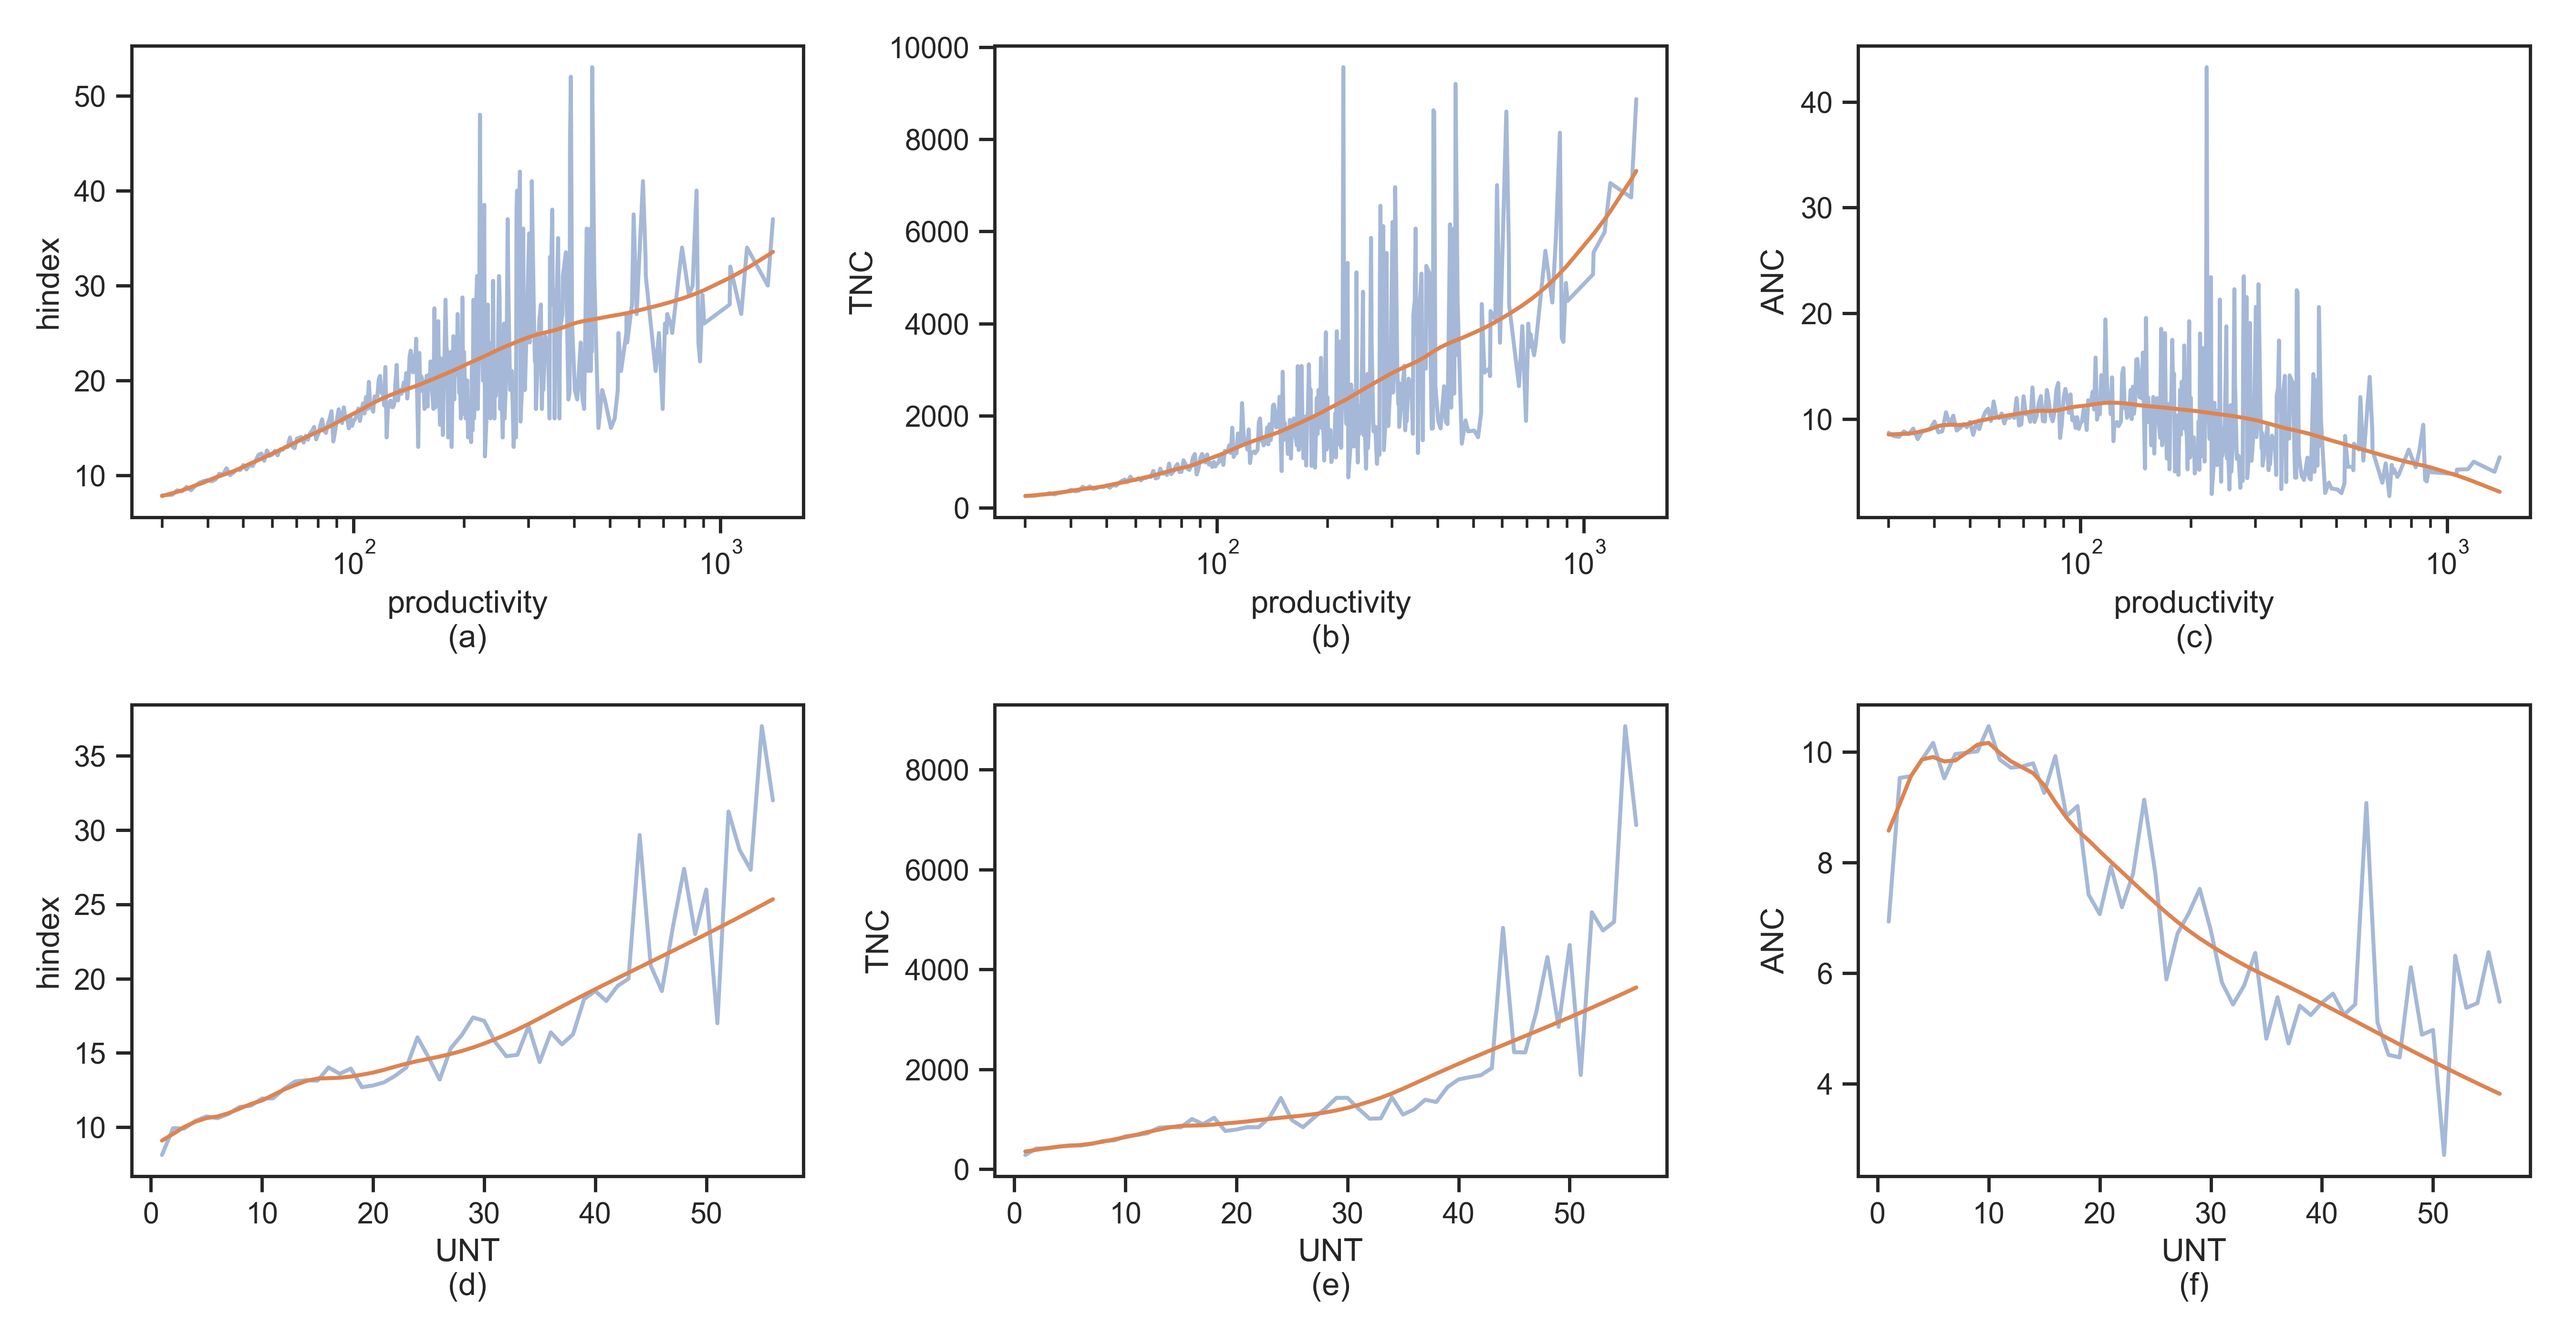
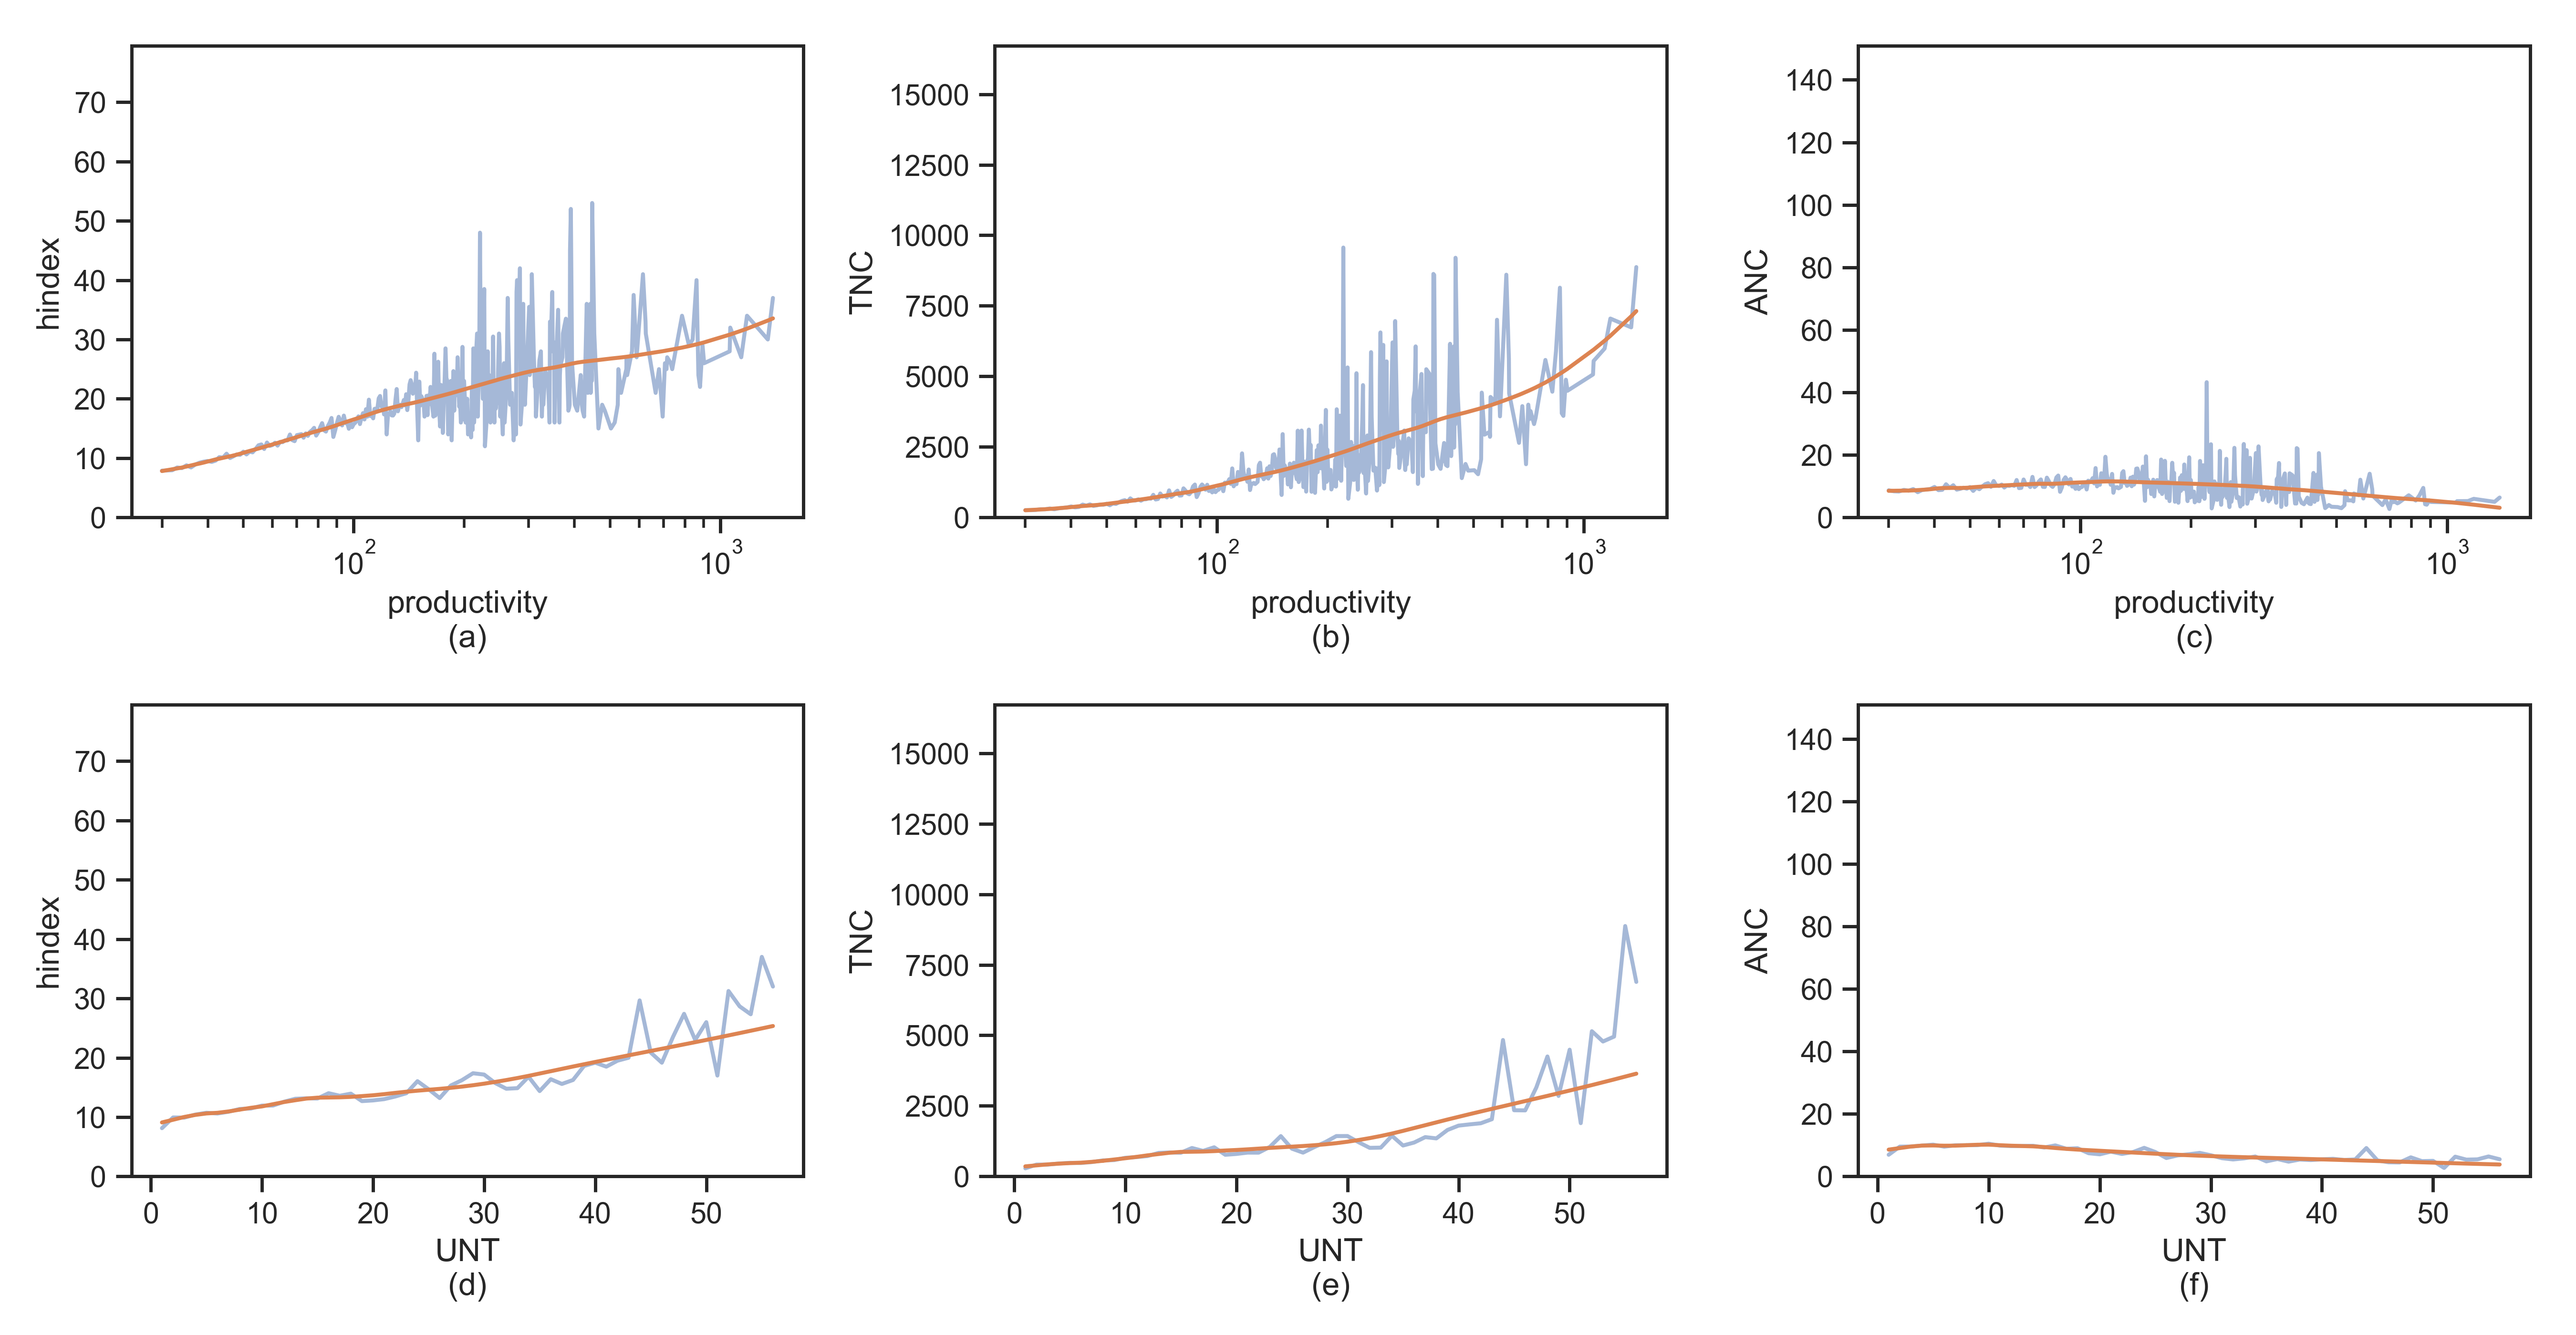
add

diff --git a/src/indicator_dis.py b/src/indicator_dis.py
@@ -106,6 +106,10 @@ def rel_two_attrs(data, x, y, ax):
     sns.lineplot(data=data, x=x, y=y, ax=ax, alpha=0.5, ci=None)
     xs, ys = zip(*lowess(data[y], data[x], frac=1. / 3, it=0))
 
+    miny = np.min(data[y])
+    maxy = np.max(data[y])
+    ax.set_ylim(miny / 2, maxy * 1.5)
+
     # ax.plot(xs, ys)
 
     # xs, ys = zip(*lowess(data[y], data[x], frac=1. / 3))
@@ -184,6 +188,15 @@ def regression_analysis():
     open('data/result.txt', 'w').write('\n'.join(results))
 
 
+    df1 = pd.DataFrame(data,
+                       columns=[
+                           'hindex', 'productivity', 'TNC', 'ANC', 'UNT',
+                           'NUNT', 'diversity', 'persistence'
+                       ])
+
+    open('data/corr.txt', 'w').write(str(df1.corr('spearman')))
+
+
 def formulate_ols(data, formula):
 
     lines = []
@@ -204,6 +217,6 @@ def formulate_ols(data, formula):
 
 if __name__ == "__main__":
 
-    # variable_dis()
+    variable_dis()
 
-    regression_analysis()
+    # regression_analysis()
